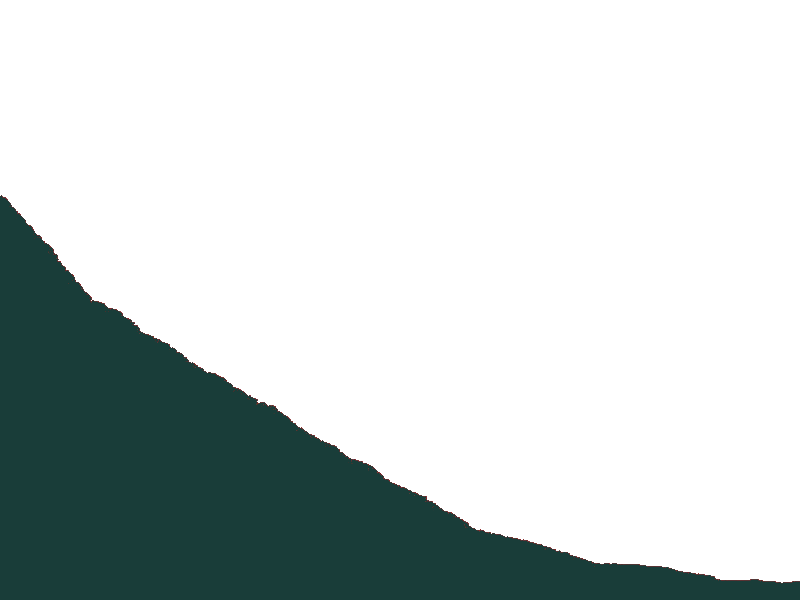
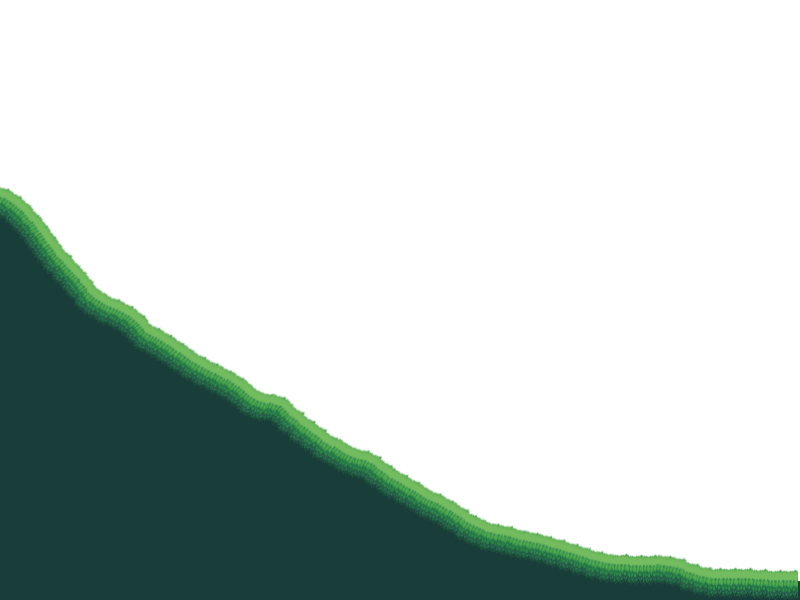
I think the json file can't have anymore polygons... hopefully that isnt the case... regardless, I worked around and Believe I HAVE FINISHED ADDING THE NEW TEXTURES TO FINAL VERISION

Changed region(s): [[0.0, 0.3, 1.0, 1.0]]

diff --git a/main.js b/main.js
@@ -27,7 +27,7 @@ var ifCanJump = true;
 
 //------------TESTING PURPOSES
 var isDebug = false;
-var godmode = 0;
+var godmode = 400;
 
 //----------Pause Control-----------
 var paused;
@@ -72,7 +72,8 @@ Game.main.prototype={
         this.load.image('terr1-5','assets/world/forest/terr1-5.png');
         this.load.image('terr1-6','assets/world/forest/terr1-6.png');
         this.load.image('terr1-7','assets/world/forest/terr1-7.png');
-        this.load.image('terr-border','assets/world/forest/terr-border.png');
+        this.load.image('terr1-b','assets/world/forest/terr1-b.png');
+        this.load.image('terr1-b2','assets/world/forest/terr1-b2.png');
         this.load.image('water1-1','assets/world/forest/water1-1.png');
         //UI
         this.load.image('continue','assets/UI/continue.png');
@@ -110,14 +111,14 @@ Game.main.prototype={
     terraincreator: function(image,x,y,playerCollisionGroup,isJumpCollisionGroup,realTerrain){
         var terrain = this.add.sprite(x, y,image); //creates the sprite
         this.physics.p2.enableBody(terrain,isDebug);    //enables physics on it
-        terrain.body.clearShapes();
         if(realTerrain){
+            terrain.body.clearShapes();
             terrain.body.loadPolygon('physicsdata',image);
-            //1.Tells the ground to be part of the jumpable collision group
-            //2.This effectively tells it that it collides with these collision groups.
-            terrain.body.setCollisionGroup(isJumpCollisionGroup);
-            terrain.body.collides([isJumpCollisionGroup, playerCollisionGroup]);
         }
+        //1.Tells the ground to be part of the jumpable collision group
+        //2.This effectively tells it that it collides with these collision groups.
+        terrain.body.setCollisionGroup(isJumpCollisionGroup);
+        terrain.body.collides([isJumpCollisionGroup, playerCollisionGroup]);
         terrain.body.static = true;                  //disables gravity for itself...
         terrain.body.fixedRotation = true;           //fixes rotation?
     },
@@ -154,14 +155,15 @@ Game.main.prototype={
         this.terraincreator('terr-null',2000,2057,playerCollisionGroup,isJumpCollisionGroup,false);
         this.terraincreator('terr1-4',2800,1595,playerCollisionGroup,isJumpCollisionGroup,true);
         this.terraincreator('terr-null',2800,2195,playerCollisionGroup,isJumpCollisionGroup,false);
-        this.terraincreator('terr-border',3196,2195,playerCollisionGroup,isJumpCollisionGroup,false);
+        this.terraincreator('terr1-b',3196,2195,playerCollisionGroup,isJumpCollisionGroup,false);
         //water pool happens then more terrain
-        this.terraincreator('terr1-5',4000,1527,playerCollisionGroup,isJumpCollisionGroup,true);
+        this.terraincreator('terr1-5',3950,1527,playerCollisionGroup,isJumpCollisionGroup,true);
         this.terraincreator('terr-null',4000,2127,playerCollisionGroup,isJumpCollisionGroup,false);
-        this.terraincreator('terr1-6',4800,1350,playerCollisionGroup,isJumpCollisionGroup,true);
-        this.terraincreator('terr-null',4800,1950,playerCollisionGroup,isJumpCollisionGroup,false);
-        this.terraincreator('terr1-7',5600,1470,playerCollisionGroup,isJumpCollisionGroup,true);
-        this.terraincreator('terr-null',5600,2070,playerCollisionGroup,isJumpCollisionGroup,false);
+        this.terraincreator('terr1-b2',3605,2127,playerCollisionGroup,isJumpCollisionGroup,false);
+        this.terraincreator('terr1-6',4750,1350,playerCollisionGroup,isJumpCollisionGroup,true);
+        this.terraincreator('terr-null',4750,1950,playerCollisionGroup,isJumpCollisionGroup,false);
+        this.terraincreator('terr1-7',5550,1470,playerCollisionGroup,isJumpCollisionGroup,true);
+        this.terraincreator('terr-null',5550,2070,playerCollisionGroup,isJumpCollisionGroup,false);
 
         //Add a forsure kill player object
         diamond = this.add.sprite(300, 1600-175, 'diamond');
